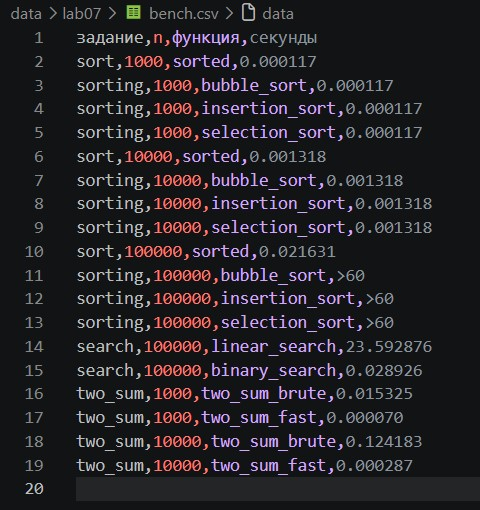
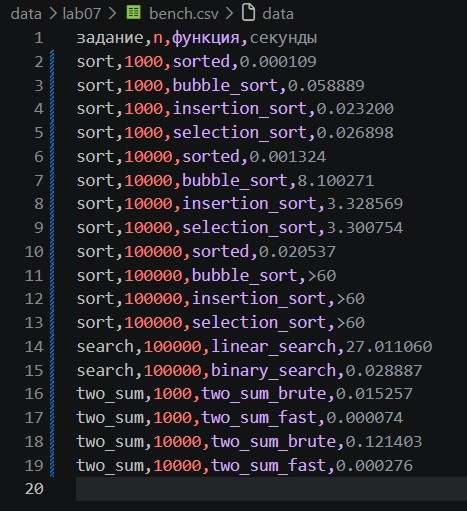
kk

Changed region(s): [[0.03, 0.0, 0.9293, 0.9412], [0.06, 0.0882, 0.1199, 0.9706]]

diff --git a/src/lab07/bench.py b/src/lab07/bench.py
@@ -15,10 +15,10 @@ def bench_sorts():
         for func in (bubble_sort, insertion_sort, selection_sort):
             name = func.__name__
             if n <= 10_000:
-                time = timeit.timeit(lambda: func(data), number = 1)
-                rows.append(("sorting", n, name, f"{t:.6f}"))
+                t = timeit.timeit(lambda: func(data), number = 1)
+                rows.append(("sort", n, name, f"{t:.6f}"))
             else:
-                rows.append(("sorting", n, name, ">60"))
+                rows.append(("sort", n, name, ">60"))
     return rows
 
 def bench_search():

diff --git a/src/lab07/README.md b/src/lab07/README.md
@@ -257,7 +257,9 @@ if __name__ == "__main__":
     print(f"OK, всего проверок {total_check}")
 ```
 Запуск: `python -m src.lab07.check `
+
 Вывод в терминал: 
+
 ![](https://github.com/uswqs/python_labs/blob/main/images/lab07/check.jpg?raw=true)
 
 
@@ -288,10 +290,10 @@ def bench_sorts():
         for func in (bubble_sort, insertion_sort, selection_sort):
             name = func.__name__
             if n <= 10_000:
-                time = timeit.timeit(lambda: func(data), number = 1)
-                rows.append(("sorting", n, name, f"{t:.6f}"))
+                t = timeit.timeit(lambda: func(data), number = 1)
+                rows.append(("sort", n, name, f"{t:.6f}"))
             else:
-                rows.append(("sorting", n, name, ">60"))
+                rows.append(("sort", n, name, ">60"))
     return rows
 ```
 ___
@@ -353,3 +355,13 @@ def main():
 ```
 ___
 Запуск: `python -m src.lab07.bench`
+
+Вывод в терминале: 
+
+![](https://github.com/uswqs/python_labs/blob/main/images/lab07/bench_terminal.jpg?raw=true)
+
+В CSV:
+
+![](https://github.com/uswqs/python_labs/blob/main/images/lab07/bench_csv.jpg?raw=true)
+
+## Выводы
